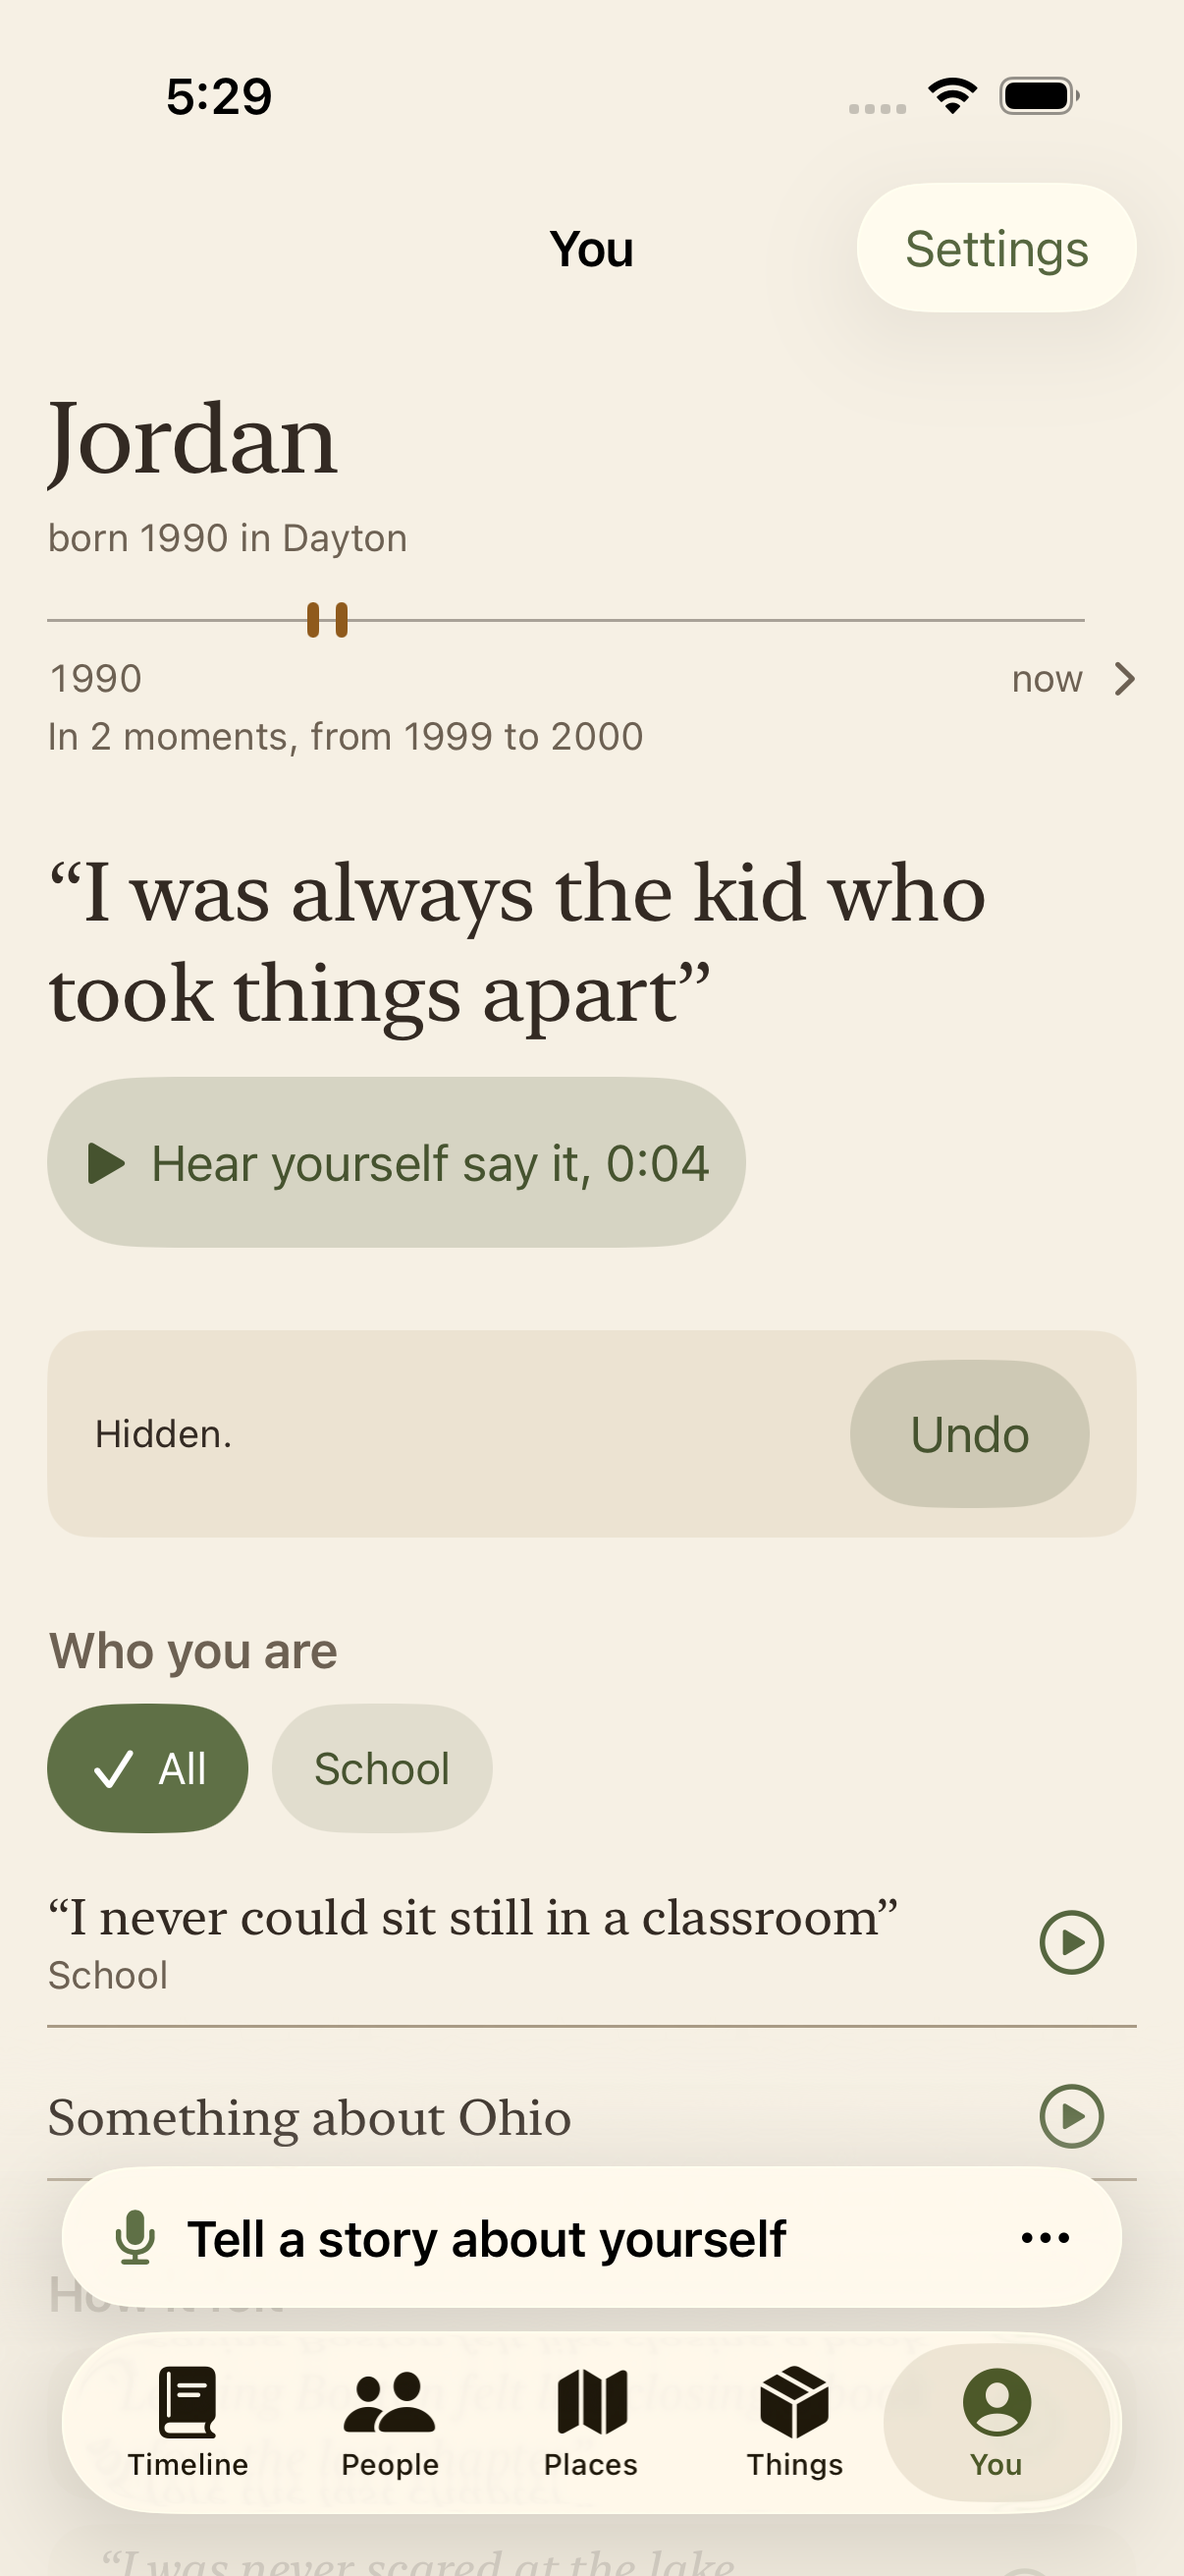
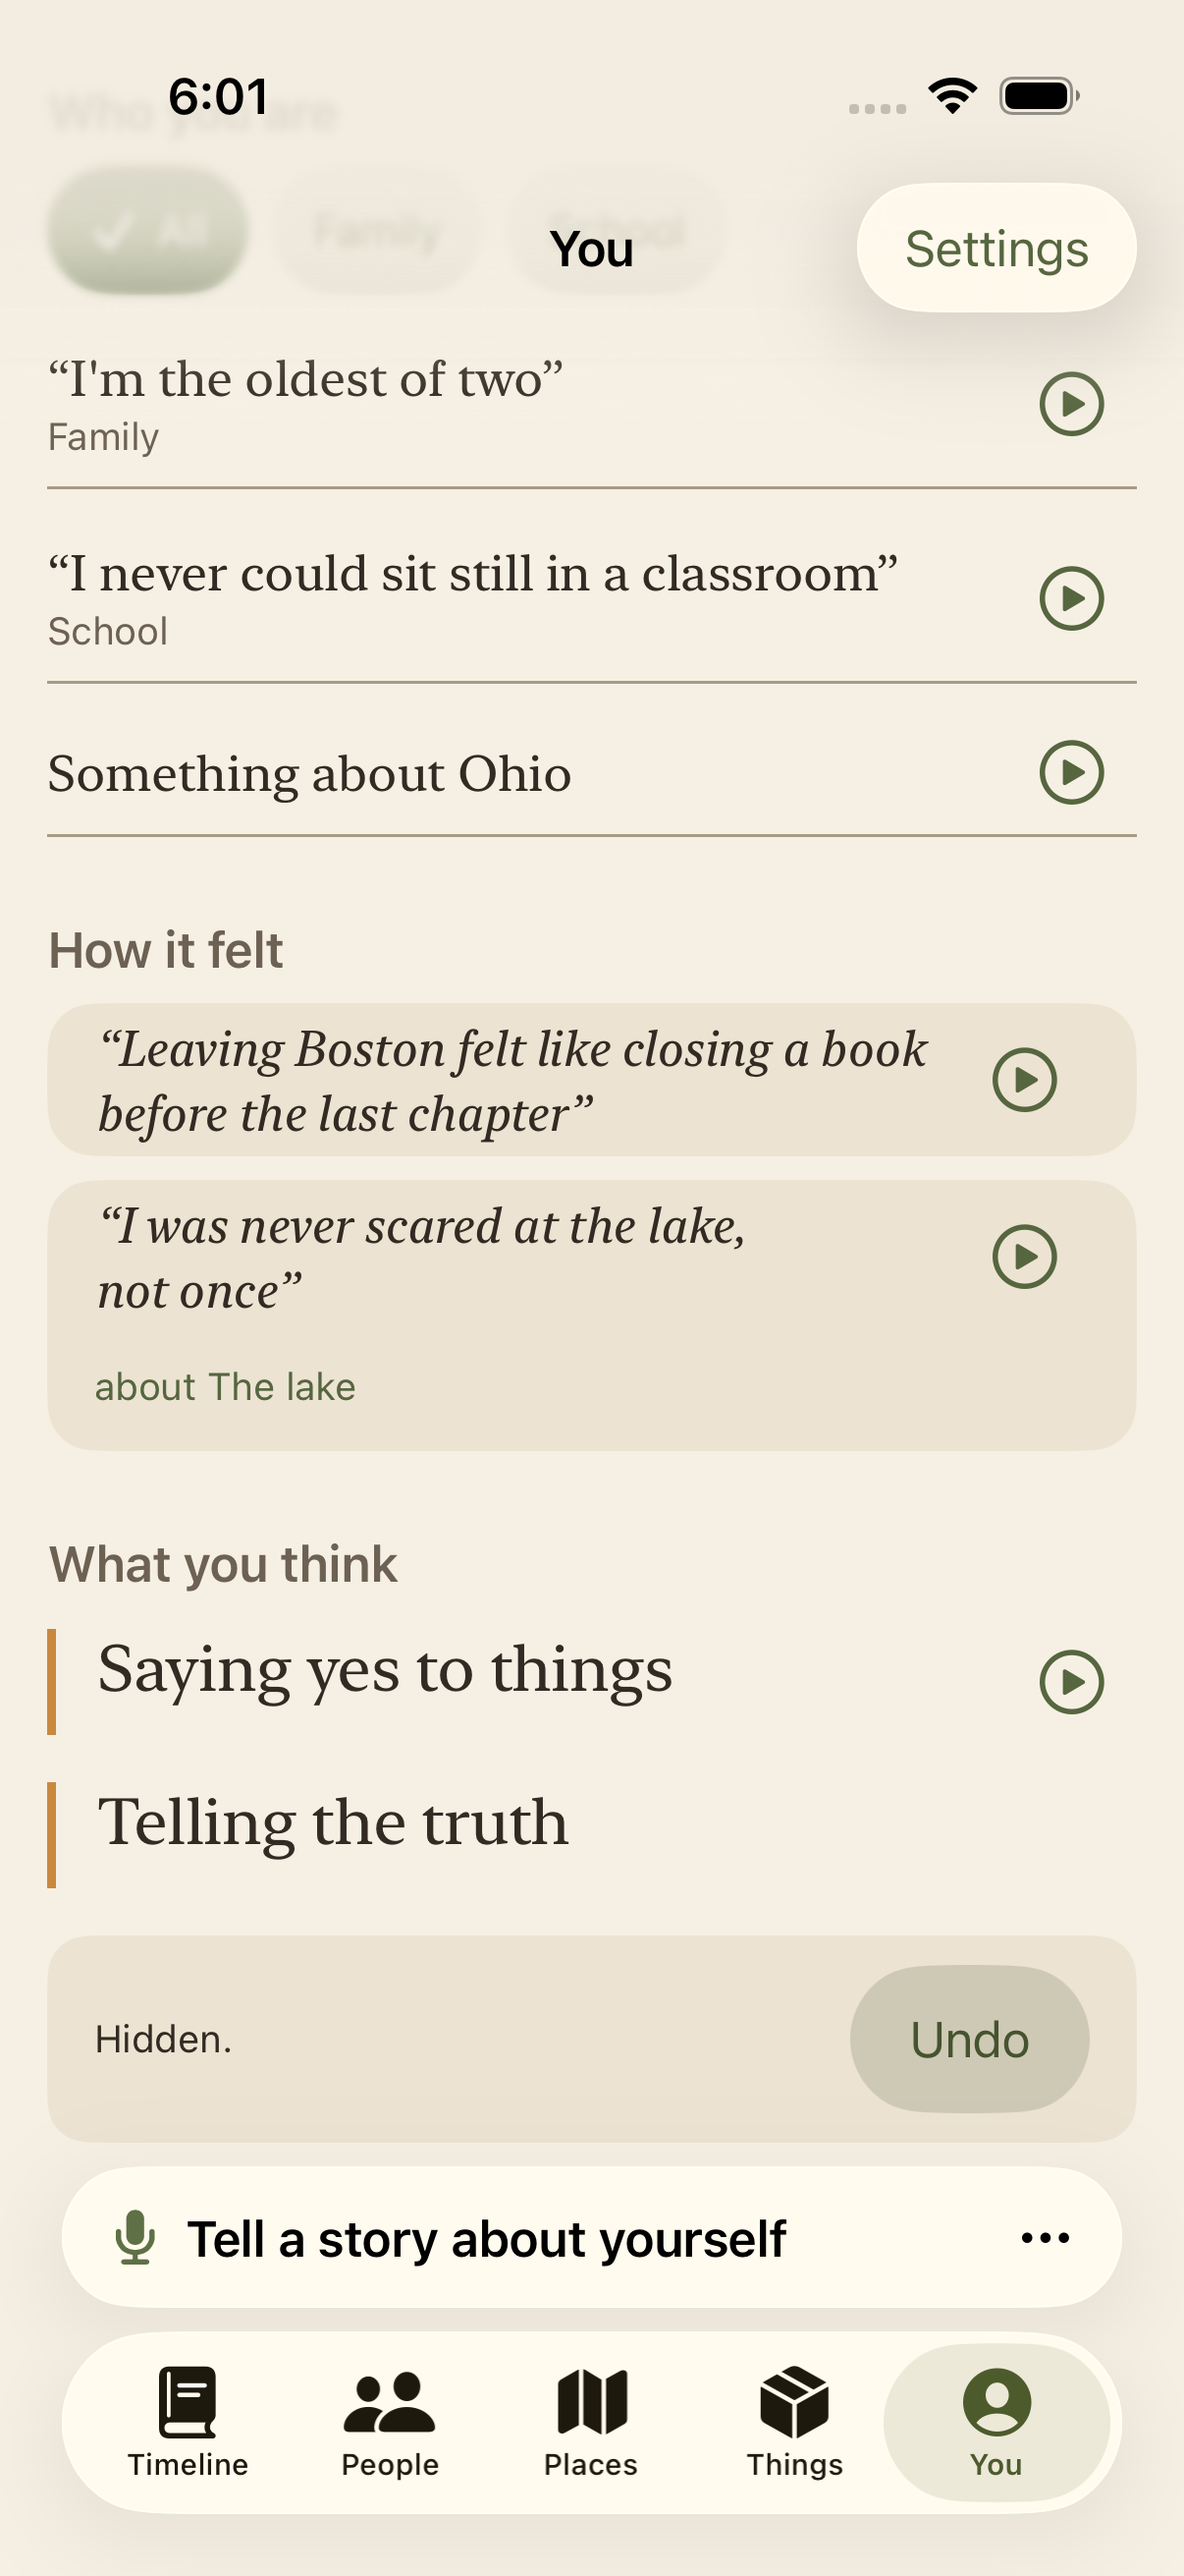
Docs and tests: review fixes
DECISIONS records the final review's rulings with their costs and states the cost of Hide plainly. OVERVIEW describes the slot, the heavy-session rule, the Timeline count and the glossary entry for You. The device checklist gains the menu, VoiceOver, tab-switch, far-down Undo, timing and heavy-session checks. KindsUITests asserts the empty You (invitation, no lead) and scrolls Timeline to its known last row. Retaken: after-timeline.png from a fresh launch, after-you-hidden.png with the pinned slot; new: after-you-error.png.

diff --git a/ios/LifelineUITests/KindsUITests.swift b/ios/LifelineUITests/KindsUITests.swift
@@ -18,14 +18,17 @@ final class KindsUITests: XCTestCase {
 
         // The fact is a detail of "the house" (S2 decision 17): not on Timeline, not on You, on the house's page.
         XCTAssertTrue(app.any("timeline.summary").waitForExistence(timeout: 5))
-        for _ in 0..<4 { app.swipeUp() }   // the List is lazy: an About section below the fold would not exist yet
+        // The List is lazy: scroll to its last row, the "Who's this?" card for Maya at the foot of the waiting cards,
+        // so an About section below it would be in the tree.
+        app.scrollTimelineToItsEnd(last: app.buttons["card.notAPerson"].firstMatch)
         XCTAssertFalse(app.any("timeline.about").exists, "no About section on Timeline")
         XCTAssertFalse(app.buttons["row.addDate"].exists, "nobody asks when a fact happened")
         XCTAssertFalse(app.any("timeline.shelf").exists, "the shelf holds moments only")
         app.openTab("You")
-        XCTAssertTrue(app.staticTexts["you.name"].waitForExistence(timeout: 10) || app.any("you.invite").waitForExistence(timeout: 5), "You is up")
-        XCTAssertFalse(app.buttons.matching(identifier: "you.line").matching(NSPredicate(format: "label CONTAINS %@", "The house had a blue door")).firstMatch.exists,
-                       "a fact about the house is not on You")
+        // Nothing else is told, so a wrongly placed house fact would be the lead, not a `you.line`: assert the empty page.
+        XCTAssertTrue(app.any("you.invite").waitForExistence(timeout: 10), "a fact about the house is not on You: You still invites a story")
+        XCTAssertFalse(app.any("you.lead").exists, "and nothing leads")
+        XCTAssertFalse(app.buttons.matching(identifier: "you.line").firstMatch.exists, "and no line shows")
         app.openTab("Things")
         let house = app.buttons.matching(identifier: "entities.row").matching(NSPredicate(format: "label == %@", "the house")).firstMatch
         XCTAssertTrue(house.waitForExistence(timeout: 5))

diff --git a/docs/OVERVIEW.md b/docs/OVERVIEW.md
@@ -129,7 +129,7 @@ These words have specific meanings in the app, the designs and the code.
 | Shelf | Where a memory with no date and no collection waits. It counts just as much as a dated one. |
 | Kind | What a memory is: a moment (an event, or other), or a fact, feeling or goal. Only moments go on the timeline. |
 | Entity | A person, place, thing or idea with a page of its own. |
-| Detail | A standing statement attached to an entity (“the house had a blue door”). “About you” holds the details about the person. |
+| Detail | A standing statement attached to an entity (“the house had a blue door”). The details about the person show on You, under “Who you are”. |
 | Turn | Something the app says out loud (M8). Stored apart from the person’s words, never made into a memory. |
 | Stated date | A date the person gave with “Tell me when”, shown exactly as said. The app never invents one. |
 
@@ -209,16 +209,16 @@ The You tab shows the person, in their own words and voice. From top to bottom i
 
 - **Header.** The name and a birth line, both from what the person typed: “born 1990 in Dayton”, “born 1990” or “born in Dayton”. With no name, no name shows.
 - **Life strip.** The owner’s own strip. It opens the owner’s own page. With no moments linked to the owner, no strip shows.
-- **Lead line.** One line of the person’s own words in large type, with “Hear yourself say it, 0:04”. The app picks it from facts, feelings and goals that have own words and a recording. It picks a new one each time You appears, and it keeps the same one across a refresh. The lead never repeats in its own part. A tag chip other than “All” does not change it.
-- **Four parts.** “Who you are” holds facts, with tag chips (“All” and the person’s tags). “How it felt” holds feelings. Each feeling may say “about {title}”, and the line opens that page. “What you think” holds ideas. “What you’re hoping for” holds goals. Each goal says “said in {month}” or “said in {month} {year}”. A part with nothing in it does not show.
+- **Lead line.** One line of the person’s own words in large type, with “Hear yourself say it, 0:04”. The app picks it from facts, feelings and goals that have own words and a recording. It picks a new one each time You appears, and it keeps the same one across a refresh. The lead never repeats in its own part. A tag chip other than “All” does not change it. A line first told in a heavy session (a disclosure, or a wish to stop) never leads. It still shows in its part, with its play control.
+- **Four parts.** “Who you are” holds facts, with tag chips (“All” and the person’s tags). “How it felt” holds feelings. Each feeling may say “about {title}”, and the line opens that page. “What you think” holds ideas. “What you’re hoping for” holds goals. Each goal says “said in {month}”, the month its session started. The year shows only when it is not this year: “said in {month} {year}”. A part with nothing in it does not show.
 
-Quotation marks go only around the person’s own words. A title that stands in shows without marks. Every line with a recording has a play control. It plays only the part of the recording where the person said that line. One line plays at a time. A play error shows under the lead and VoiceOver announces it. Hide and Delete… are on a long-press menu on each line. Hide shows “Hidden.” with Undo for 6 seconds. Delete asks first.
+Quotation marks go only around the person’s own words. A title that stands in shows without marks. Every line with a recording has a play control. It plays only the part of the recording where the person said that line. One line plays at a time. Playback stops when its line leaves the page: Hide, Delete, or a tag chip that filters it out. Hide and Delete… are on a long-press menu on each line. Hide shows “Hidden.” with Undo for 6 seconds. Delete asks first. “Hidden.” with Undo, a play error, and a failed hide, delete or undo show in one slot. The slot is pinned at the bottom of You, above the record bar, so it is on screen wherever the line was. One message shows at a time, and a newer one replaces the older. VoiceOver announces each message when it appears. The slot clears when You disappears and when a new lead is picked.
 
 A fact shows under “Who you are” when it has a detail link to the owner, or no detail link. A fact detailed only to someone else shows on that page. A fact about only a hidden person or thing follows it and does not show on You. The app never names a hidden entity in “about”. A You page with nothing told shows the header and “Stories you tell about yourself will show here.”
 
-The About list left the Timeline. The Timeline summary still says “and N things about your life”, so a person who told only facts does not see the empty state.
+The About list left the Timeline. The Timeline summary still says “and N things about your life”, so a person who told only facts does not see the empty state. N counts the visible facts, feelings and goals. The tag filter and “Show hidden memories” do not change N. While a tag filter is on, the summary leaves out that part, and the tag menu offers only the tags that a moment carries.
 
-Limits. Real playback is checked only on the iPhone, because test seeds have no audio. A line hidden before this change has no way back. Most facts about other people stay on You until extractor v7 re-reads the archive and adds detail links. There is no dark palette yet.
+Limits. Real playback is checked only on the iPhone, because test seeds have no audio. A line hidden from You has no way back after its 6-second Undo, or after the person leaves the You root. No screen shows a hidden fact, feeling or goal again. “Show hidden memories” on Timeline shows hidden moments only, not hidden facts, feelings or goals. A hidden fact, feeling or goal cannot be deleted, because no screen shows it. Lines hidden before this change are in the same state. Most facts about other people stay on You until extractor v7 re-reads the archive and adds detail links. There is no dark palette yet.
 
 ### 6. Kinds and entities
 

diff --git a/docs/DECISIONS.md b/docs/DECISIONS.md
@@ -17,9 +17,24 @@ One entry per decision. Newest first. Status is Decided, Open, or Superseded.
 - The About list leaves the Timeline. The summary keeps "and N things about your life".
 - No migration. The portrait reads in batches, reads nothing until it is on screen, and refreshes when a session closes.
 
+**Rulings from the final review (2026-11-16).** Each ruling has its cost.
+
+- **A line from a heavy session never leads.** A line whose first telling is in a session with a disclosure or a wish to stop is not in the lead pool. It still shows in its part, with its play control. The app reads the heavy sessions in one batch, as the landing reads one session. Why: a disclosure must not show at title size with a play button each time the person opens a tab (PRINCIPLES, session arc and safety). Cost: the check is per session, so an ordinary line from a heavy session never leads either.
+- **One slot for Undo and errors.** "Hidden." with Undo, a play error, and a failed hide, delete or undo show in one slot pinned at the bottom of You, above the record bar. It replaces "under the lead". One message shows at a time, and a newer one replaces the older. Undo stays in the slot while its 6 seconds last, also when an error replaces "Hidden.". VoiceOver announces each message when it appears, also when the same text appears again. The error for a page that could not be read keeps its own place. Why: an Undo the person cannot see is no safety net. Cost: one more floating element above the record bar while it shows.
+- **A stale play error goes.** The slot clears when You disappears and when a new lead is picked. Cost: none.
+- **Playback stops when its line leaves the page.** Hide, Delete and a tag chip that filters the line out each stop it. Cost: none.
+- **Sort order.** Facts, feelings and goals sort by when they were told (the session start), then by the start of the span, then by id. A line with no recording sorts after the others, by id. Why: one stable answer. Cost: two lines told in the same second sort by the span start, not by meaning.
+- **Chips come from listed facts only.** A tag only on a hidden, floating or unlisted memory makes no chip. Why: a chip must never lead to an empty part. Cost: none.
+- **"said in" uses the Gregorian calendar in English.** Only the time zone comes from the device. Why: the copy is English, and a Buddhist-calendar year in English copy reads as wrong. Cost: a person whose device uses another calendar sees Gregorian years.
+- **The owner is never an "about" target.** A feeling linked to the owner and to the lake reads "about The lake". Why: "about you" on your own page says nothing. Cost: none.
+- **Timeline count and tag menu.** "N things about your life" counts visible facts, feelings and goals. The tag filter and "Show hidden memories" do not change it. While a tag filter is on, the summary leaves out the "and N things" part. The tag menu offers only the tags that at least one moment carries. With a filter on and no moment that matches, the empty state shows. Why: Timeline must not claim content that it does not show. Cost: a tag used only on facts cannot filter the Timeline; it is a chip on You.
+- **Screens built before the owner answered.** The screen tasks were built on the plan's defaults before the owner answered the plan's open questions (dates under feelings, when the lead changes, the strip as the link to the owner's page, hidden lines one way, facts about others staying on You until extractor v7). Cost: rework of the affected views and tests if the owner overrules a default.
+
 **Why.** About held 62% of everything on one screen (audit F9), and the owner is a person too (F10). A portrait in the person's own words and voice serves P1 and P2. Showing only what the person said, with no guessed link, serves P5.
 
-**Costs.** Most facts about other people stay on You until extractor v7 re-reads the archive and adds detail links. A fact about a hidden entity shows nowhere until the entity shows again. A line hidden before the Undo existed has no way back. The lead changes less often while a person filters. No dark palette exists yet.
+**Costs.** Most facts about other people stay on You until extractor v7 re-reads the archive and adds detail links. A fact about a hidden entity shows nowhere until the entity shows again. The lead changes less often while a person filters. No dark palette exists yet.
+
+**Cost of Hide (read this before you hide a line).** Hide on You has no way back after its 6-second Undo, or after the person leaves the You root. No screen shows a hidden fact, feeling or goal again. "Show hidden memories" on Timeline shows only hidden moments. It does not show hidden facts, feelings or goals. A hidden fact, feeling or goal cannot be deleted, because no screen shows it. Lines hidden before this change are in the same state. A way back is a follow-up for the owner to place.
 
 ## 2026-11-15 · Five sections: Timeline, People, Places, Things, You
 

diff --git a/docs/plans/2026-11-16-sections-you-device-check.md b/docs/plans/2026-11-16-sections-you-device-check.md
@@ -4,10 +4,16 @@ Use the owner's iPhone with the owner's real archive. Tick each line when it is 
 
 - [ ] 1. You reads as a portrait in light and dark appearance: name, birth line, strip, lead line, then the parts. No part shows empty. (There is no dark palette yet, so dark may fail.)
 - [ ] 2. Open You three times from another tab. The lead line changes, and it never repeats in its part.
-- [ ] 3. Play the lead and two lines. Each plays only the words on screen. A second tap stops it.
+- [ ] 3. Play the lead and two lines. Each plays only the words on screen, and the play length does not run past the words. A second tap stops it.
 - [ ] 4. With VoiceOver, each line reads its words, then its tag or "said in ...". Each play control reads "Hear yourself say it".
 - [ ] 5. At the largest accessibility text size, the lead and every line read in full, and the chips wrap.
 - [ ] 6. A feeling's "about" line opens that page. The strip opens your own page.
 - [ ] 7. On the owner's real archive, list the facts under "Who you are" that are about someone else. They show the extractor's missing links (decision 2) for track A.
-- [ ] 8. Hide a line and delete another. Timeline shows no About section, and its summary still counts them.
+- [ ] 8. Hide a line and delete another. Timeline shows no About section. Its summary does not count the hidden line.
 - [ ] 9. After Hide, "Hidden." and Undo show for about 6 seconds. Undo brings the line back.
+- [ ] 10. Long-press a line. The menu shows Hide and Delete….
+- [ ] 11. With VoiceOver, reach Hide and Delete as actions on a line and on the lead.
+- [ ] 12. Play a line, then switch to another tab. Playback stops.
+- [ ] 13. Scroll to a line far down the page and hide it. "Hidden." and Undo show above the record bar, without a scroll.
+- [ ] 14. On the real archive, time how long You takes to open from another tab. It must not hitch.
+- [ ] 15. On the real archive, open You several times. No line from a session with a heavy moment (a disclosure, or a wish to stop) leads.
